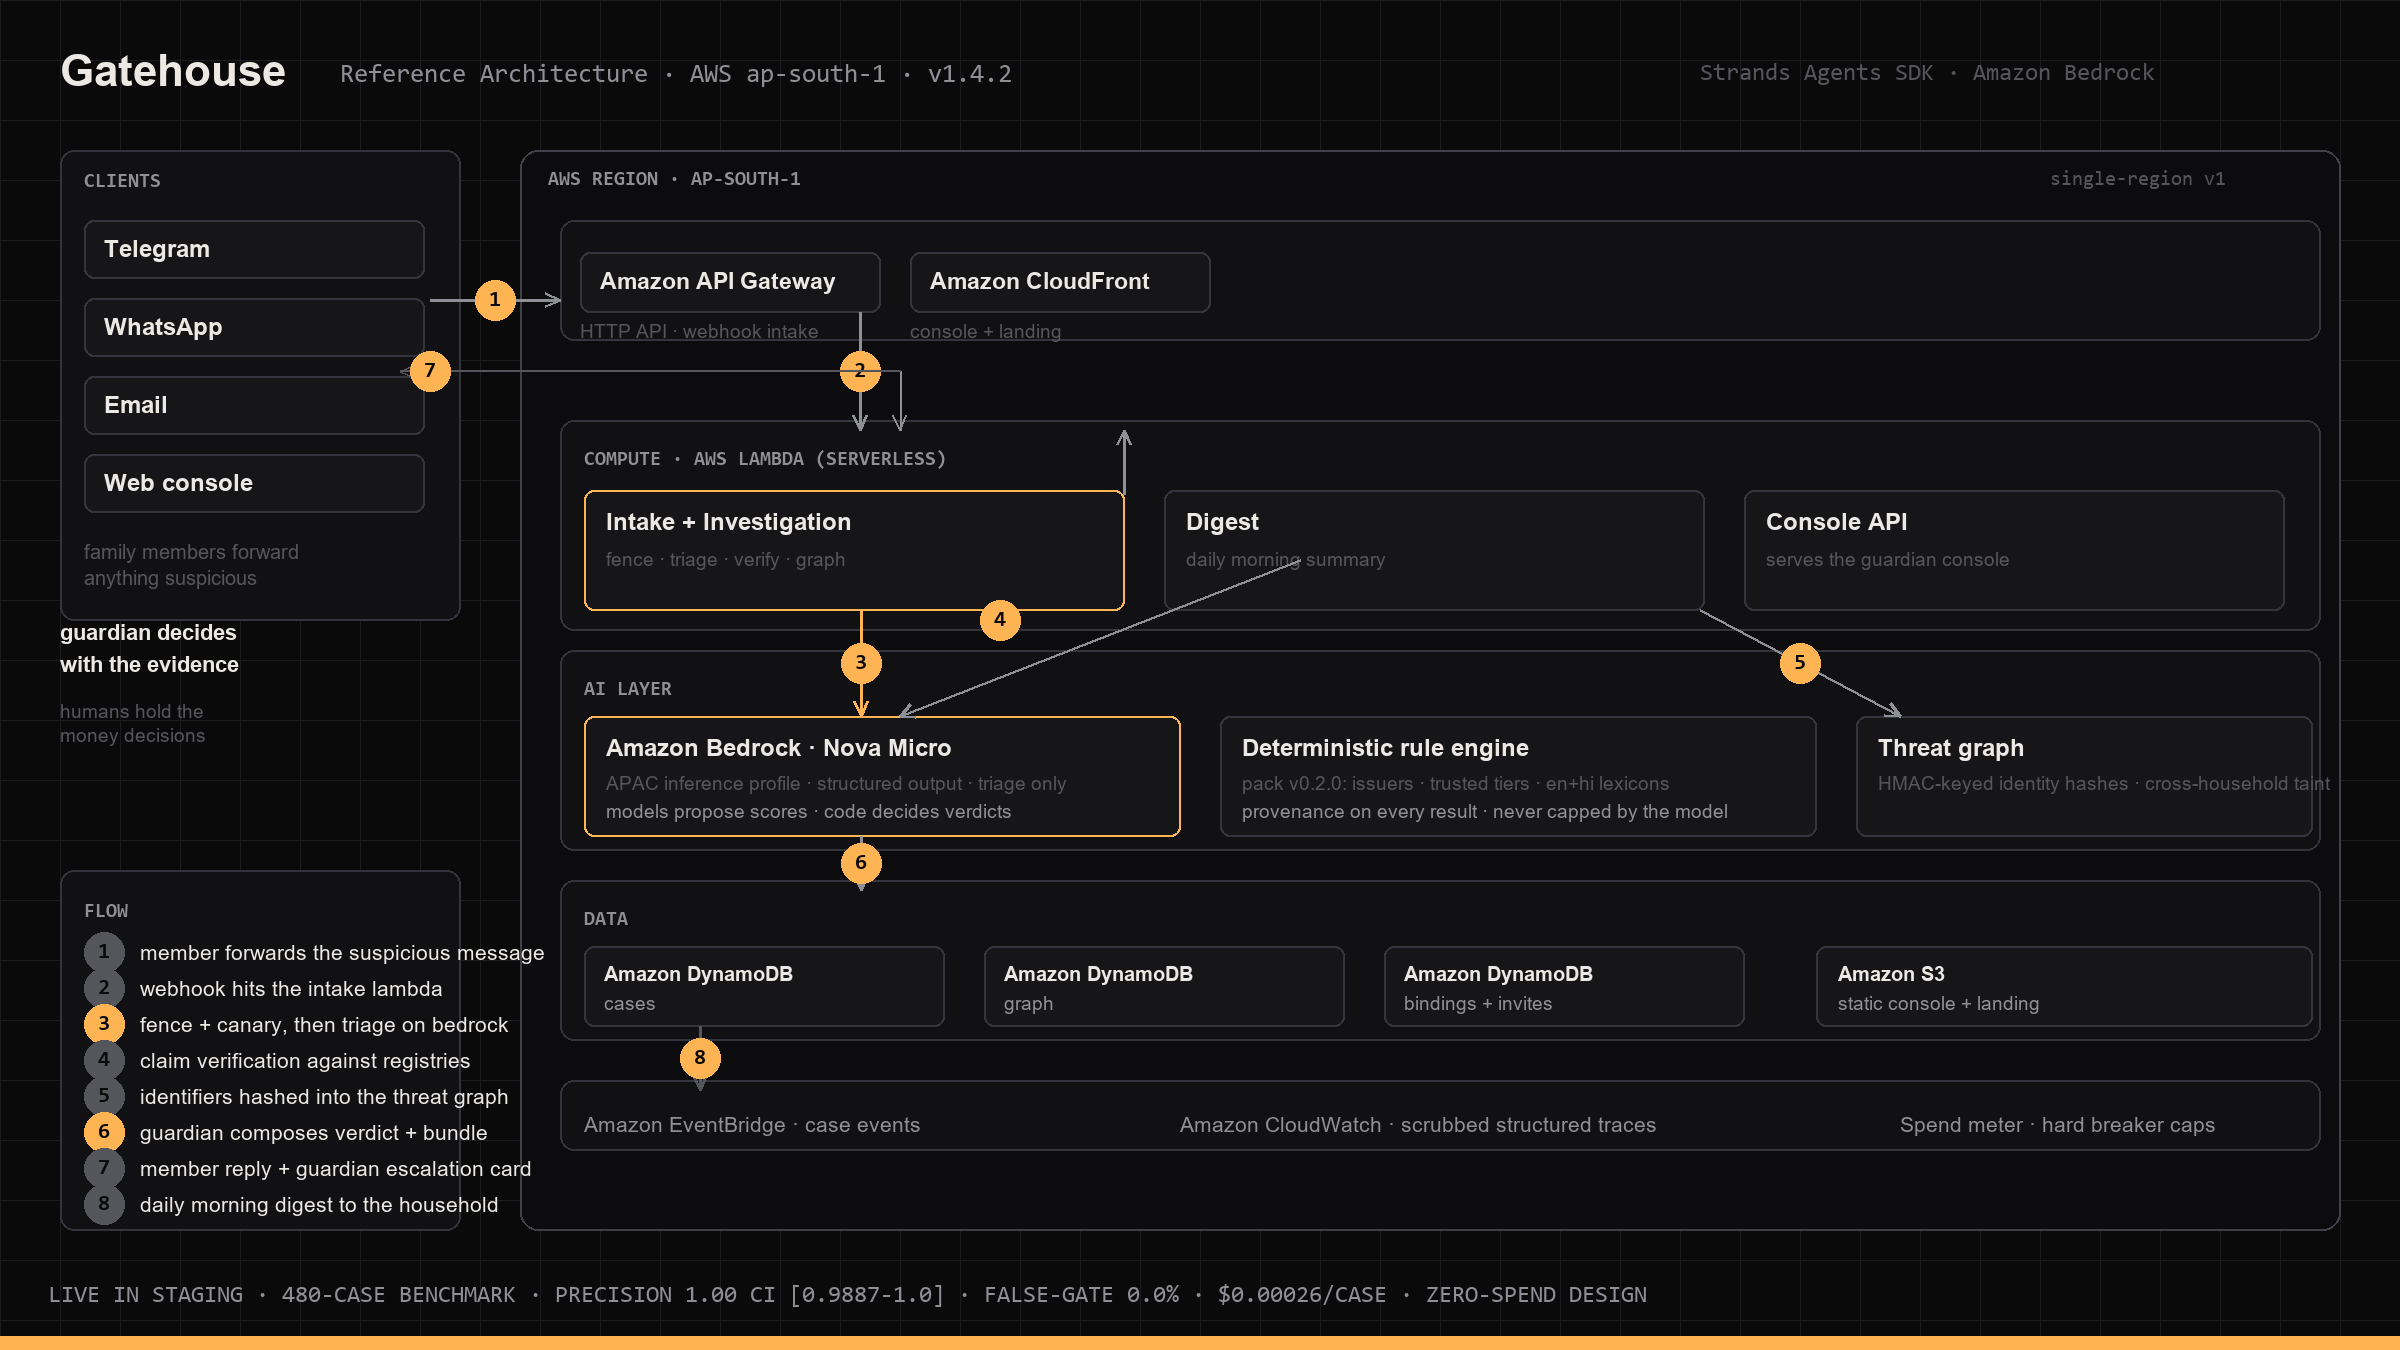
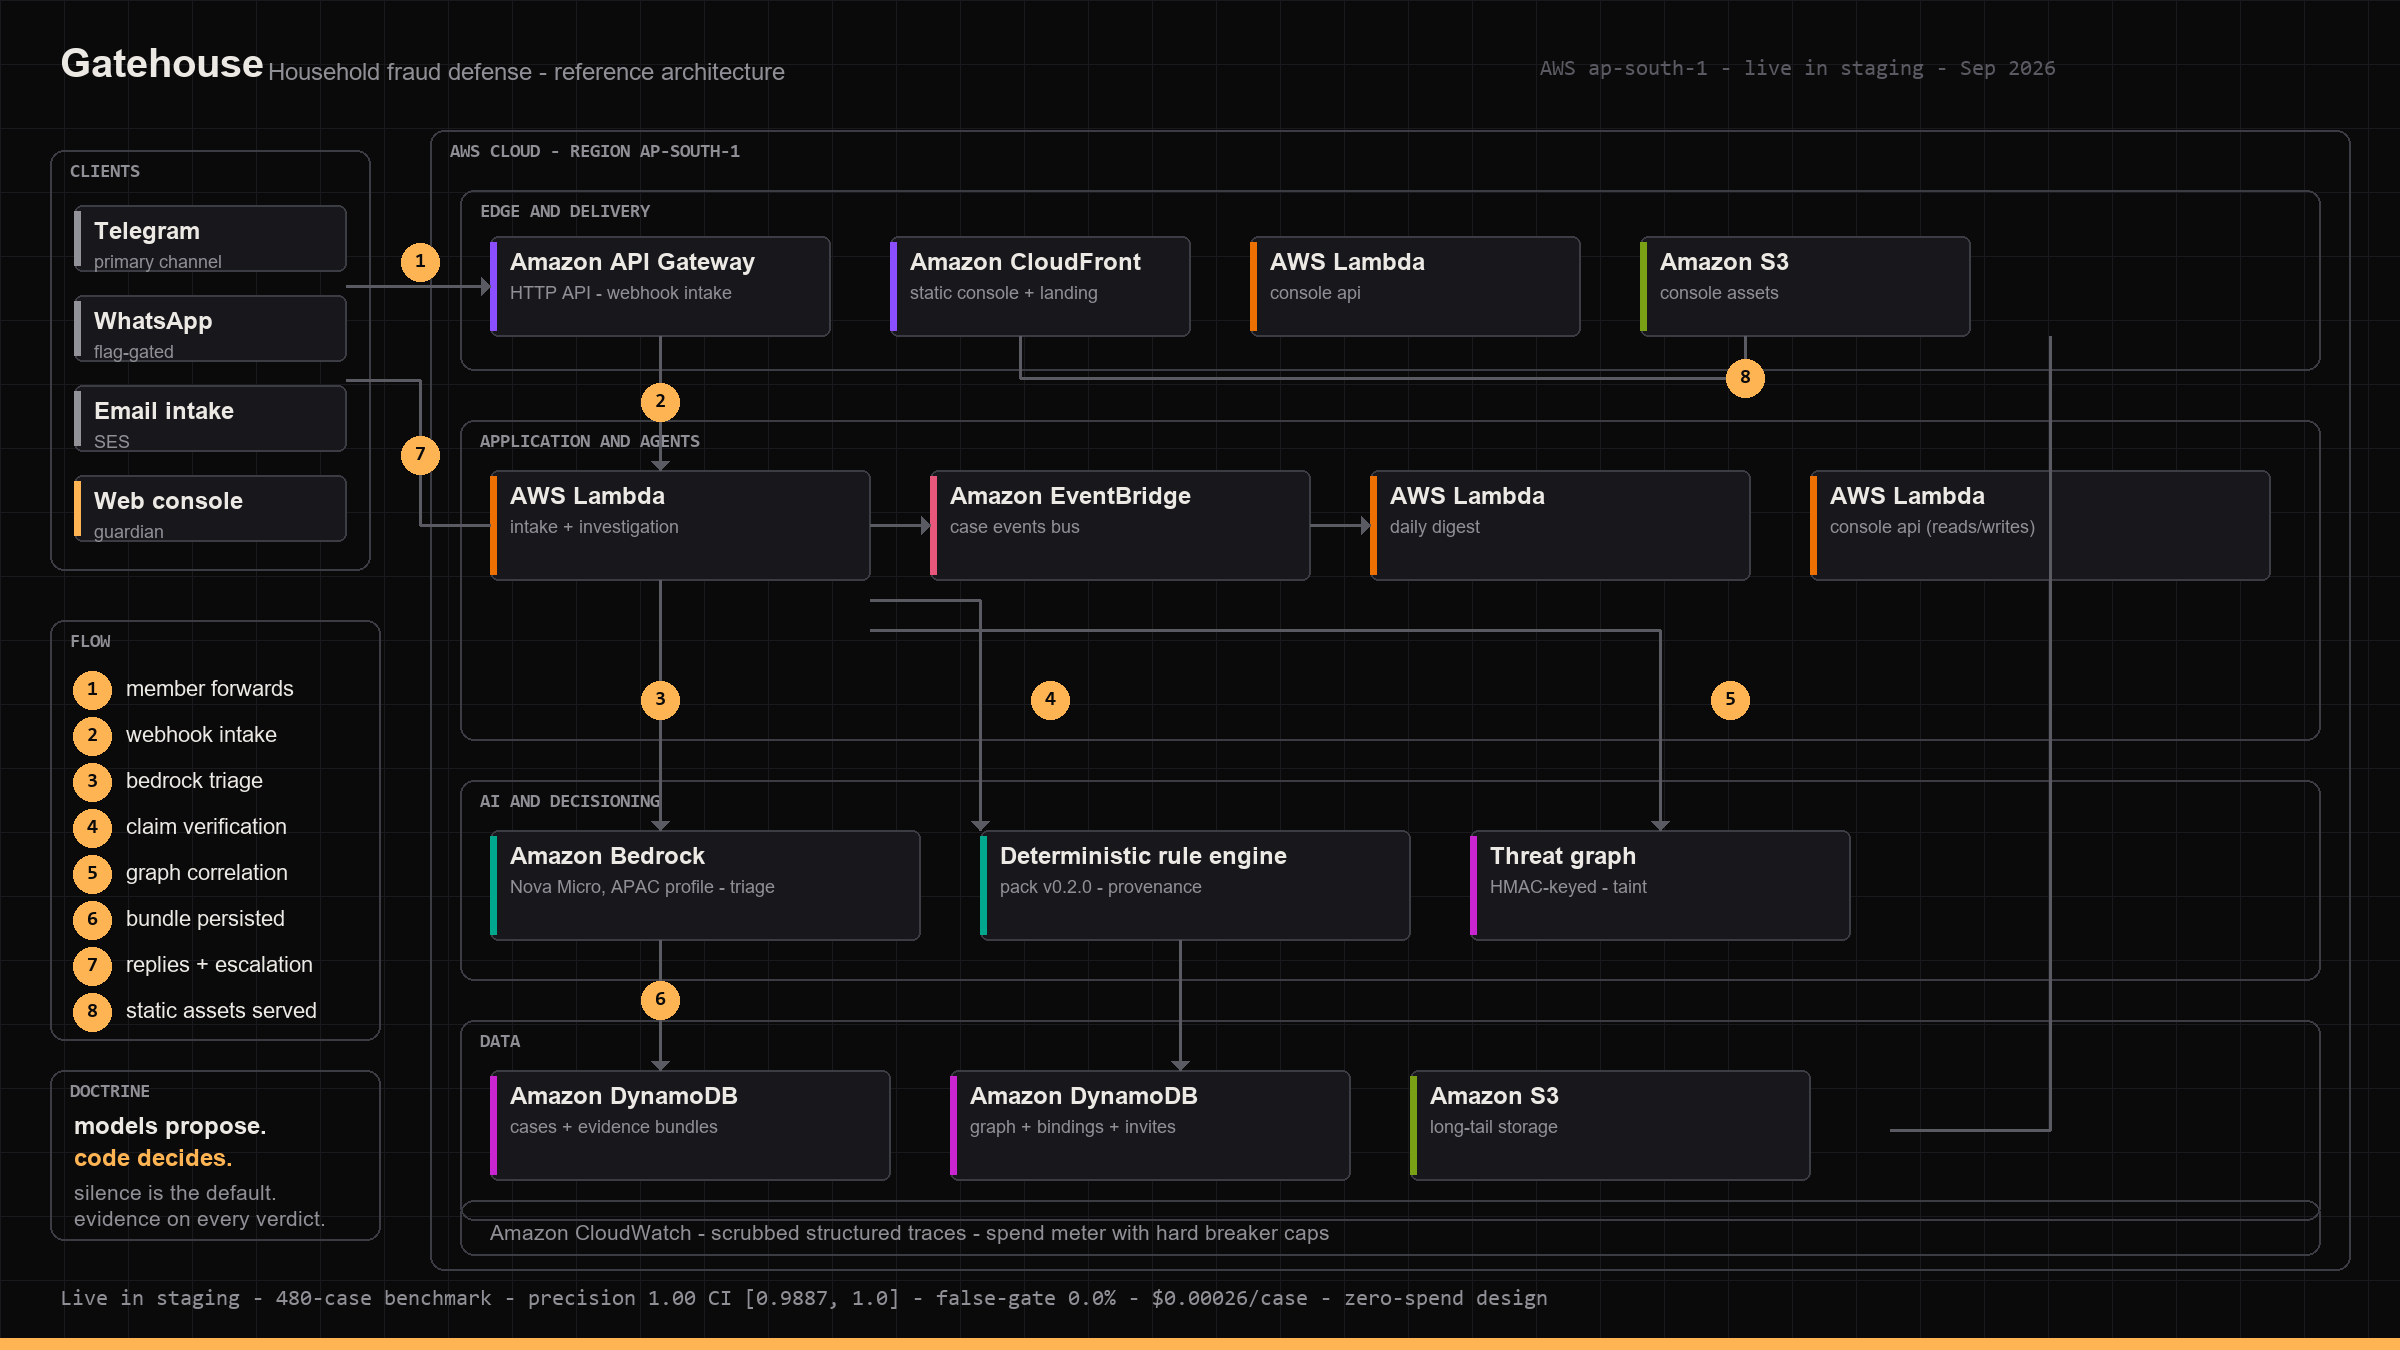
feat: renders the submission architecture diagram in aws enterprise style
What: the required architecture diagram is now a proper aws solution-architecture drawing: service cards with category chips, grouped containers, orthogonal connectors with eight numbered flow badges, doctrine block, and a footer carrying the real published metrics. Rendered from a committed script, fully reproducible. This replaces the first poster-style attempt.

Why: the submission requires a professional architecture diagram.

Dependencies: none; all numbers from committed artifacts.

Verification: rendered and visually inspected at 2400x1350; card overlap removed, orthogonal routing, no invented data.

diff --git a/scripts/make_architecture.py b/scripts/make_architecture.py
@@ -1,0 +1,198 @@
+"""Render the required AWS architecture diagram, enterprise document style.
+
+AWS solution-architecture conventions: services as cards with category
+chips, grouped containers (client, AWS cloud region), orthogonal connectors
+with numbered flow badges, legend, title block. 2400x1350 PNG.
+"""
+from PIL import Image, ImageDraw, ImageFont
+
+INK = (10, 10, 11)
+PANEL = (17, 17, 19)
+CARD = (24, 24, 28)
+BONE = (236, 233, 228)
+SILVER = (143, 143, 150)
+DIM = (90, 90, 98)
+AMBER = (255, 180, 84)
+GREEN = (61, 220, 132)
+RED = (255, 107, 107)
+BLUE = (122, 184, 255)
+LINE = (60, 60, 68)
+GRID = (26, 26, 30)
+
+# AWS service-category chip colors
+C_CLIENT = (146, 146, 153)
+C_INTEG = (231, 87, 123)     # application integration (pink)
+C_COMPUTE = (237, 113, 0)    # compute (orange)
+C_AI = (1, 168, 141)         # machine learning (teal)
+C_DB = (201, 37, 209)        # database (violet)
+C_STORE = (122, 161, 22)     # storage (green)
+C_NET = (140, 79, 255)       # networking (purple)
+C_MGMT = (61, 220, 132)      # management/observability
+
+F = "C:/Windows/Fonts/"
+
+
+def F_(bold=True, size=26, mono=False):
+    if mono:
+        return ImageFont.truetype(F + ("consolab.ttf" if bold else "consola.ttf"), size)
+    return ImageFont.truetype(F + ("arialbd.ttf" if bold else "arial.ttf"), size)
+
+
+def grid(d, w, h, step=64):
+    for x in range(0, w, step):
+        d.line([(x, 0), (x, h)], fill=GRID, width=1)
+    for y in range(0, h, step):
+        d.line([(0, y), (w, y)], fill=GRID, width=1)
+
+
+def chip_box(d, x, y, w, h, category, name, sub="", dark=True):
+    """AWS-style service card: colored category chip, name, optional sub."""
+    d.rounded_rectangle([x, y, x + w, y + h], radius=8, fill=CARD, outline=LINE, width=2)
+    d.rectangle([x, y + 6, x + 6, y + h - 6], fill=category)
+    d.text((x + 20, y + 12), name, font=F_(True, 24), fill=BONE)
+    if sub:
+        d.text((x + 20, y + 46), sub, font=F_(False, 18), fill=SILVER)
+    return (x, y, x + w, y + h)
+
+
+def container(d, x, y, w, h, label, color=None):
+    d.rounded_rectangle([x, y, x + w, y + h], radius=14, outline=LINE, width=2)
+    if label:
+        d.text((x + 20, y + 12), label.upper(), font=F_(True, 19, mono=True), fill=SILVER)
+
+
+def hline(d, x1, x2, y, color=DIM, w=3):
+    d.line([(x1, y), (x2, y)], fill=color, width=w)
+
+
+def vline(d, x, y1, y2, color=DIM, w=3):
+    d.line([(x, y1), (x, y2)], fill=color, width=w)
+
+
+def badge(d, x, y, n, color=AMBER):
+    r = 19
+    d.ellipse([x - r, y - r, x + r, y + r], fill=color)
+    f = F_(True, 20, mono=True)
+    t = str(n)
+    b = d.textbbox((0, 0), t, font=f)
+    d.text((x - (b[2] - b[0]) / 2, y - (b[3] - b[1]) / 2 - 3), t, font=f, fill=INK)
+
+
+def arrow_head(d, x, y, direction, color=DIM):
+    s = 9
+    if direction == "right":
+        d.polygon([(x, y), (x - s, y - s), (x - s, y + s)], fill=color)
+    elif direction == "down":
+        d.polygon([(x, y), (x - s, y - s), (x + s, y - s)], fill=color)
+
+
+W, H = 2400, 1350
+img = Image.new("RGB", (W, H), INK)
+d = ImageDraw.Draw(img)
+grid(d, W, H)
+
+# Title block
+d.text((60, 40), "Gatehouse", font=F_(True, 40), fill=BONE)
+d.text((268, 58), "Household fraud defense - reference architecture", font=F_(False, 24), fill=SILVER)
+d.text((W - 860, 58), "AWS ap-south-1 - live in staging - Sep 2026", font=F_(False, 22, mono=True), fill=DIM)
+
+# ---- Clients container (outside cloud) ----
+container(d, 50, 150, 320, 420, "clients")
+clients = [
+    ("Telegram", "primary channel", C_CLIENT),
+    ("WhatsApp", "flag-gated", C_CLIENT),
+    ("Email intake", "SES", C_CLIENT),
+    ("Web console", "guardian", (255, 180, 84)),
+]
+for i, (name, sub, c) in enumerate(clients):
+    chip_box(d, 74, 205 + i * 90, 272, 66, c, name, sub)
+
+# ---- AWS Cloud region container ----
+container(d, 430, 130, 1920, 1140, "aws cloud - region ap-south-1")
+
+# Edge & delivery
+container(d, 460, 190, 1860, 180, "edge and delivery", C_NET)
+chip_box(d, 490, 236, 340, 100, C_NET, "Amazon API Gateway", "HTTP API - webhook intake")
+chip_box(d, 890, 236, 300, 100, C_NET, "Amazon CloudFront", "static console + landing")
+chip_box(d, 1250, 236, 330, 100, C_COMPUTE, "AWS Lambda", "console api")
+chip_box(d, 1640, 236, 330, 100, C_STORE, "Amazon S3", "console assets")
+
+# Application layer
+container(d, 460, 420, 1860, 320, "application and agents", C_INTEG)
+chip_box(d, 490, 470, 380, 110, C_COMPUTE, "AWS Lambda", "intake + investigation", )
+chip_box(d, 930, 470, 380, 110, C_INTEG, "Amazon EventBridge", "case events bus")
+chip_box(d, 1370, 470, 380, 110, C_COMPUTE, "AWS Lambda", "daily digest")
+chip_box(d, 1810, 470, 460, 110, C_COMPUTE, "AWS Lambda", "console api (reads/writes)")
+
+# AI layer
+container(d, 460, 780, 1860, 200, "ai and decisioning", C_AI)
+chip_box(d, 490, 830, 430, 110, C_AI, "Amazon Bedrock", "Nova Micro, APAC profile - triage")
+chip_box(d, 980, 830, 430, 110, C_AI, "Deterministic rule engine", "pack v0.2.0 - provenance")
+chip_box(d, 1470, 830, 380, 110, C_DB, "Threat graph", "HMAC-keyed - taint")
+
+# Database layer
+container(d, 460, 1020, 1860, 200, "data", C_DB)
+chip_box(d, 490, 1070, 400, 110, C_DB, "Amazon DynamoDB", "cases + evidence bundles")
+chip_box(d, 950, 1070, 400, 110, C_DB, "Amazon DynamoDB", "graph + bindings + invites")
+chip_box(d, 1410, 1070, 400, 110, C_STORE, "Amazon S3", "long-tail storage")
+
+# Observability strip
+container(d, 460, 1200, 1860, 55, None, C_MGMT)
+d.text((490, 1220), "Amazon CloudWatch - scrubbed structured traces - spend meter with hard breaker caps",
+       font=F_(False, 21), fill=SILVER)
+
+# ---- Connectors (orthogonal, numbered) ----
+# 1 clients -> APIGW webhook intake
+hline(d, 346, 490, 286, DIM); arrow_head(d, 490, 286, "right"); badge(d, 420, 262, 1)
+# 2 APIGW -> intake lambda (down)
+vline(d, 660, 336, 470, DIM); arrow_head(d, 660, 470, "down"); badge(d, 660, 402, 2)
+# intake -> eventbridge -> digest
+hline(d, 870, 930, 525, DIM); arrow_head(d, 930, 525, "right")
+hline(d, 1310, 1370, 525, DIM); arrow_head(d, 1370, 525, "right")
+# 3 intake -> bedrock
+vline(d, 660, 580, 830, DIM); arrow_head(d, 660, 830, "down"); badge(d, 660, 700, 3)
+# 4 intake -> rule engine
+hline(d, 870, 980, 600, DIM); vline(d, 980, 600, 830, DIM); arrow_head(d, 980, 830, "down"); badge(d, 1050, 700, 4)
+# 5 intake -> graph
+hline(d, 870, 1660, 630, DIM); vline(d, 1660, 630, 830, DIM); arrow_head(d, 1660, 830, "down"); badge(d, 1730, 700, 5)
+# 6 decisioning -> data
+vline(d, 660, 940, 1070, DIM); arrow_head(d, 660, 1070, "down"); badge(d, 660, 1000, 6)
+vline(d, 1180, 940, 1070, DIM); arrow_head(d, 1180, 1070, "down")
+# console api lambda -> dynamo (right side corridor)
+vline(d, 2050, 336, 1130, DIM); hline(d, 1890, 2050, 1130, DIM); arrow_head(d, 1890, 1130, "left")
+# 7 guardian replies back to clients (corridor x370-430)
+hline(d, 490, 420, 525, DIM); vline(d, 420, 525, 380, DIM); hline(d, 420, 346, 380, DIM); arrow_head(d, 346, 380, "left")
+badge(d, 420, 455, 7)
+# 8 cloudfront -> S3 static assets (corridor y378)
+vline(d, 1020, 336, 378, DIM); hline(d, 1020, 1745, 378, DIM); vline(d, 1745, 378, 336, DIM); arrow_head(d, 1745, 336, "up")
+badge(d, 1745, 378, 8)
+
+# Legend
+container(d, 50, 620, 330, 420, "flow")
+legend = [
+    (1, "member forwards"),
+    (2, "webhook intake"),
+    (3, "bedrock triage"),
+    (4, "claim verification"),
+    (5, "graph correlation"),
+    (6, "bundle persisted"),
+    (7, "replies + escalation"),
+    (8, "static assets served"),
+]
+for i, (n, t) in enumerate(legend):
+    badge(d, 92, 690 + i * 46, n)
+    d.text((126, 676 + i * 46), t, font=F_(False, 22), fill=BONE)
+
+container(d, 50, 1070, 330, 170, "doctrine")
+d.text((74, 1112), "models propose.", font=F_(True, 24), fill=BONE)
+d.text((74, 1144), "code decides.", font=F_(True, 24), fill=AMBER)
+d.text((74, 1180), "silence is the default.", font=F_(False, 21), fill=SILVER)
+d.text((74, 1206), "evidence on every verdict.", font=F_(False, 21), fill=SILVER)
+
+# Footer
+d.rectangle([0, H - 12, W, H], fill=AMBER)
+d.text((60, H - 62), "Live in staging - 480-case benchmark - precision 1.00 CI [0.9887, 1.0] - false-gate 0.0% - $0.00026/case - zero-spend design",
+       font=F_(False, 22, mono=True), fill=SILVER)
+
+img.save("docs/submission/architecture.png")
+print("architecture.png rendered", img.size)
